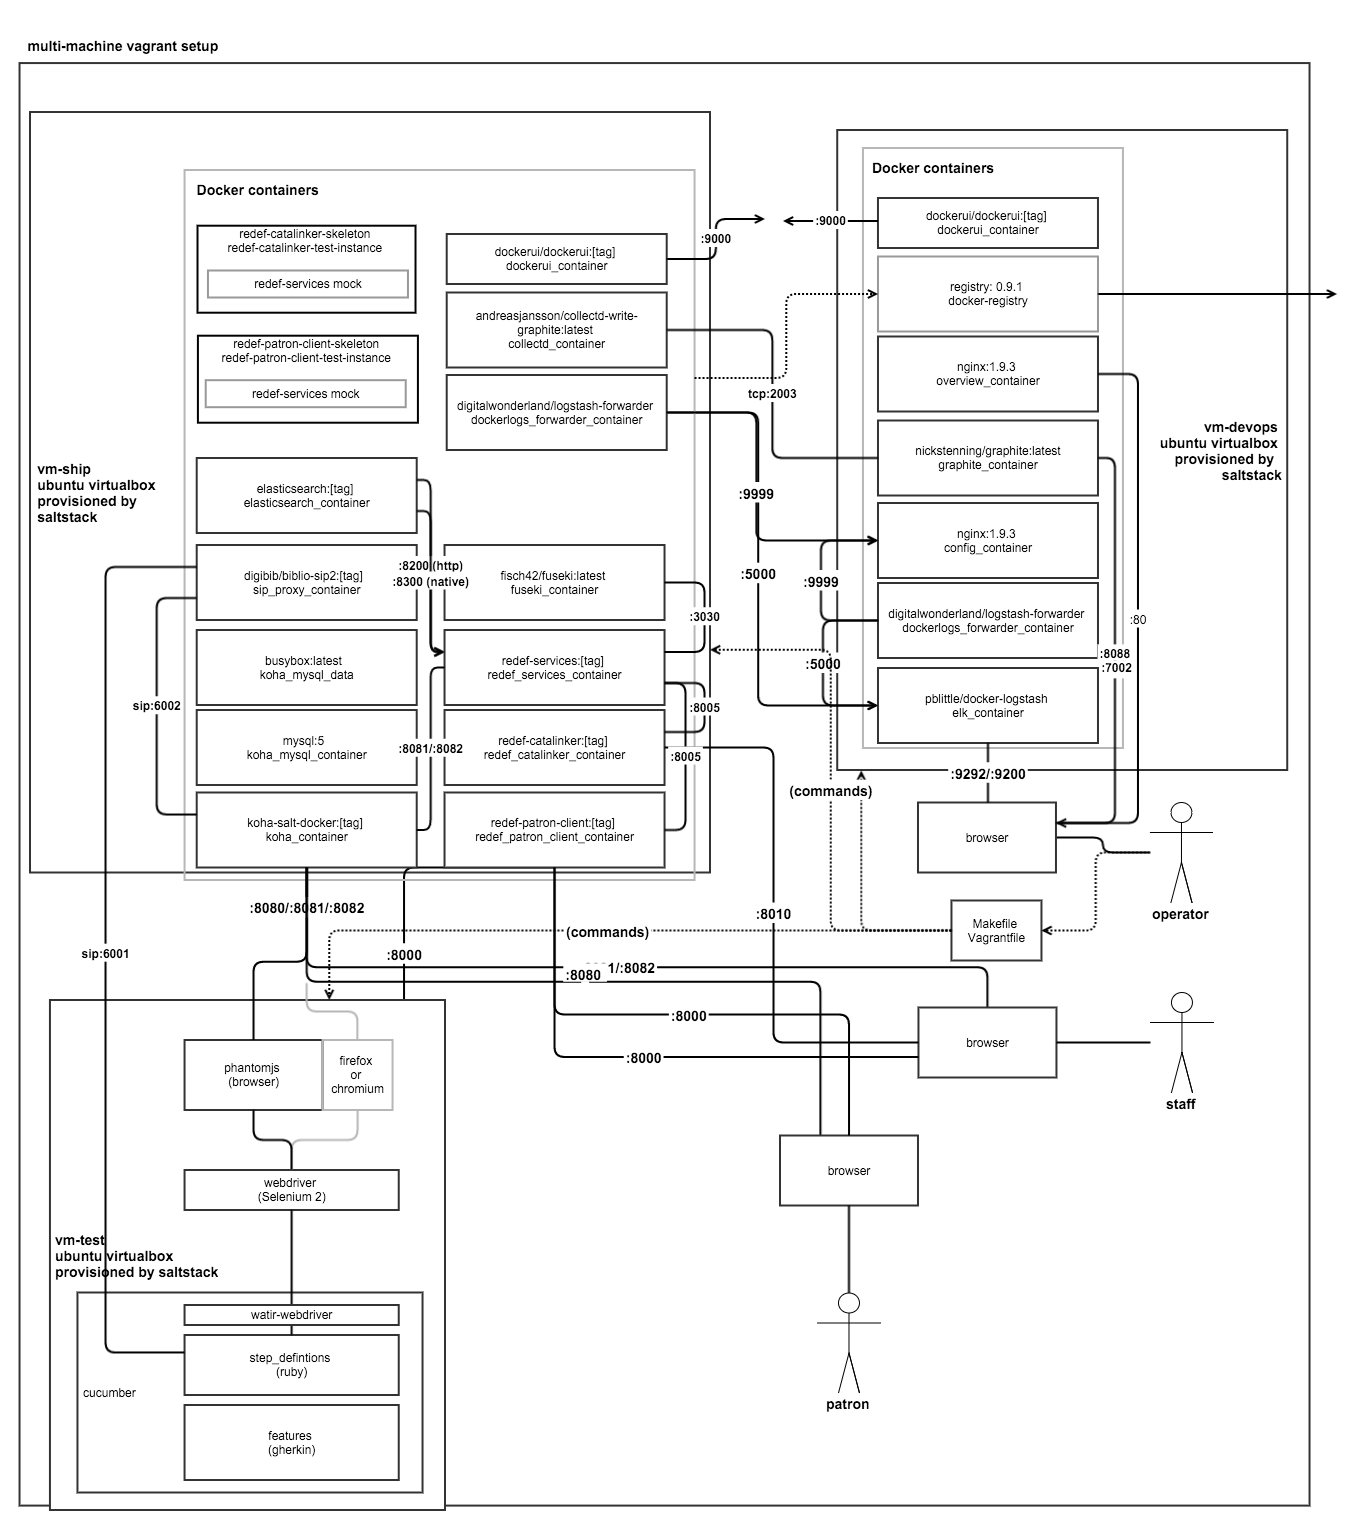
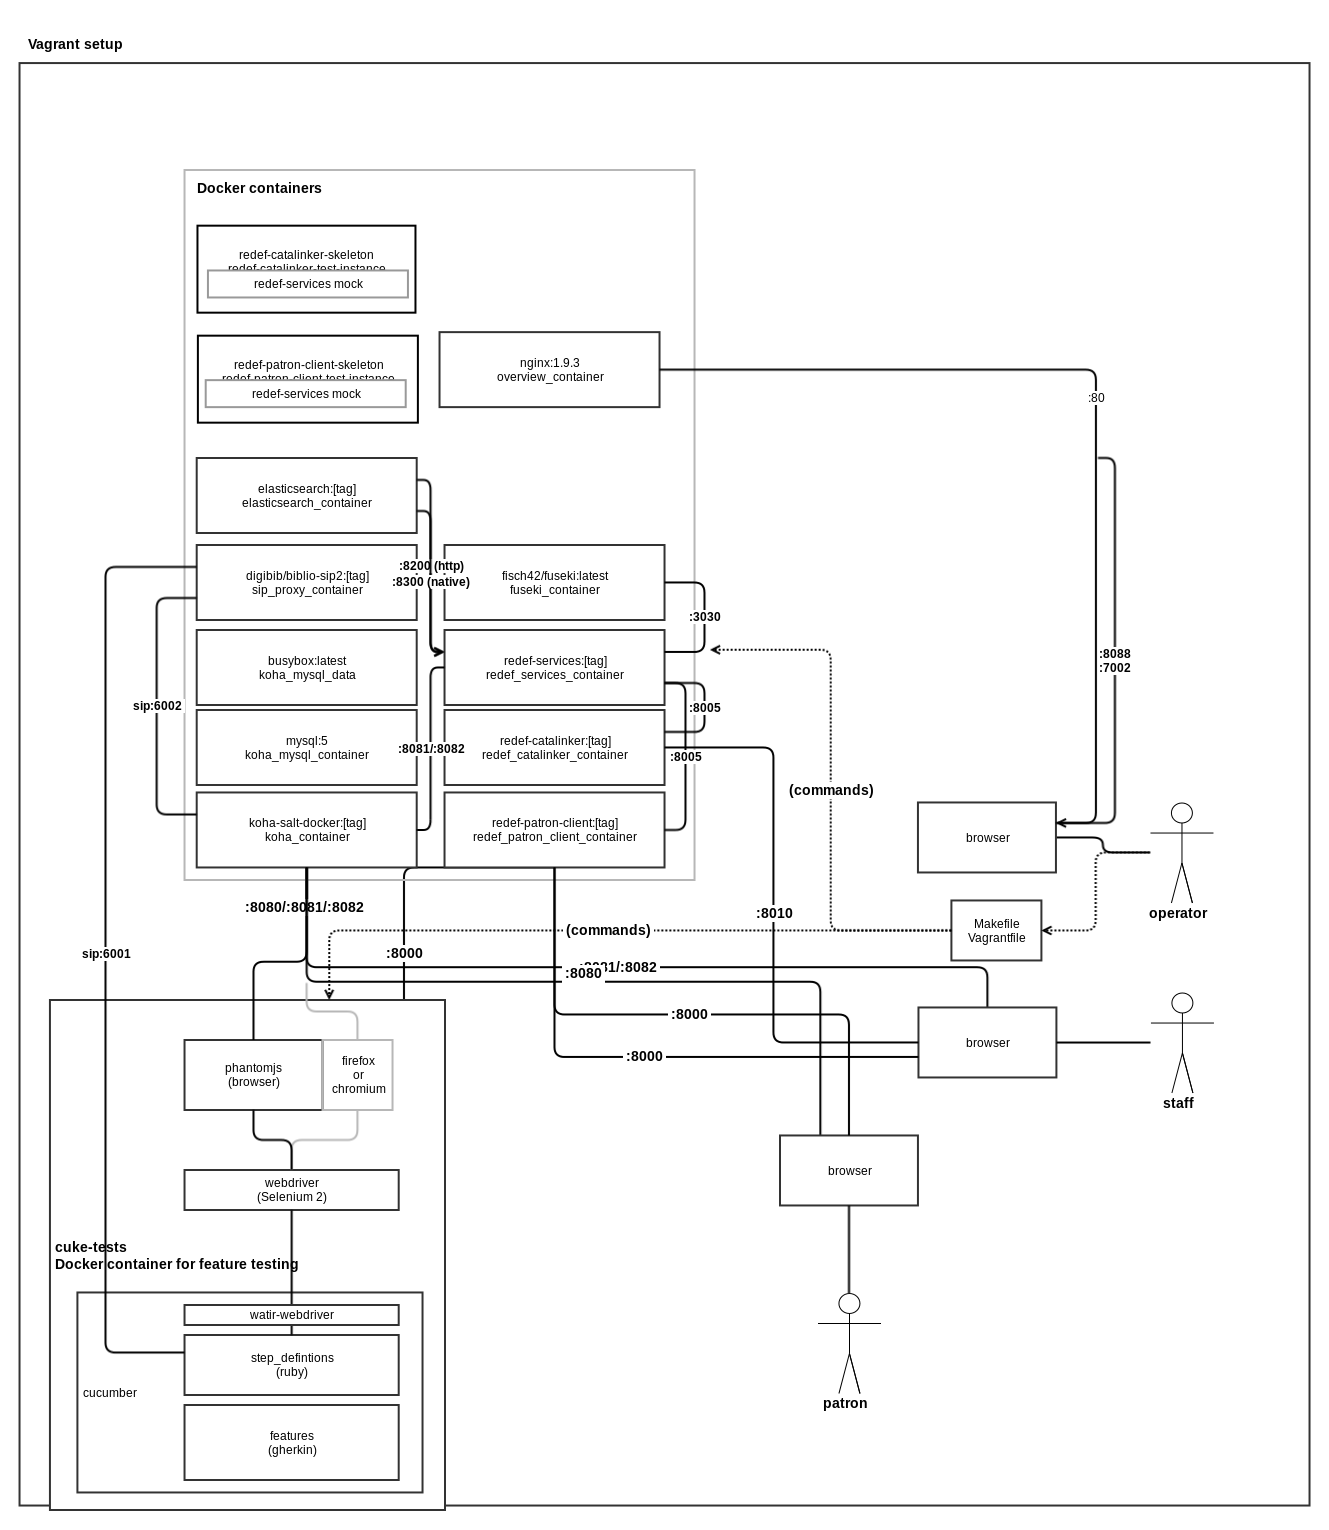
Update README and documentation, cleanup Makefile

diff --git a/README.md b/README.md
@@ -13,11 +13,74 @@ driven by acceptance tests - using [Cucumber](http://cukes.info/). For
 browser automation we use [Watir WebDriver](http://watirwebdriver.com).
 
 This setup uses [Vagrant](http://www.vagrantup.com/) for local virtualisation
-and [SaltStack](http://docs.saltstack.com/) for automated provisioning.
+and [Docker Engine](https://www.docker.com/docker-engine) for Docker container orchestration.
+A minimal [SaltStack](http://docs.saltstack.com/) is used for provisioning, but is planned removed in the future.
 
 ## Usage
 
-For local setup and to run tests, we use a multi-machine vagrant setup (see [Illustration](#illustration)).
+For local setup and to run tests, we use a vagrant setup (see [Illustration](#illustration)).
+
+Docker containers are used both in development and in production.
+
+## Installation and Quickstart
+
+(for detailed installation, read [Installation](#Installation))
+
+Having installed all prerequisites, system cat be set up my:
+
+`make`:     Installs all, sets up and runs all tests (take a lunch break)
+
+Step-wise:
+
+```
+make up:        Starts Vagrant box
+make provision: Provisions box, downloads all code and dependencies, creates and starts containers
+make test:      Runs all tests
+make cuke_test  Run only feature tests
+```
+
+## Docker Compose
+
+Three environment setups:
+```
+dev:    template: docker-compose-template-dev.yml
+build:  template: docker-compose-template-dev-CI.yml
+prod:   template: docker-compose-template-prod-yml
+```
+
+Environment variables are used to provision templates according to base environment
+
+## Environments
+
+Develop:
+```
+export LSDEVMODE=dev
+
+* docker containers are built and run on demand:
+  - catalinker    (handled by docker-compose)
+  - patron-client (handled by docker-compose)
+  - overview      (handled by docker-compose)
+  - services      (handled by gradle)
+```
+
+Build:
+
+`export LSDEVMODE=build`
+
+Build process is handled by Jenkins CI.
+Docker containers are built, Unit Tests, Module Tests and Feature Tests are run.
+
+If success, docker images are pushed to Docker Registry using GITREF as tag
+
+Production:
+
+Deployment is setup in docker-compose-template-prod-yml, and the specified instance is deployed by Jenkins.
+
+GITREF is used to pull correct docker images of (services, catalinker and patron-client).
+
+KOHA_IMAGE_TAG is used to pull specified Koha build
+
+## Installation
 
 1. Install virtualbox and vagrant (and X11-server on OSX - for development):
     - Ubuntu:
@@ -79,12 +142,12 @@ The first step for creating a new feature is authoring a test, in this case a ve
 1. Open terminal
 2. Change directory to LS.ext by typing
 
-   ```
+```
 cd (foldername where you keep your projects)/LS.ext/test/features
 ```
 Then type
 
-    ```
+```
 git up
 ```
 
@@ -94,20 +157,20 @@ git up
    - start by adding a "Egenskap" that explains the feature in the simplest way
    - Then follows the typical "User story" format (with one change).
 
-      ```
+```
 Feature: Title of the feature
   As a (role)
   I want to (what you want to accomplish)
   So therefore I need (what you want to do)
 ```
 
-      It often makes for bad grammar, but helps us focus on what we want to achieve, rather than how we achieve it.
+It often makes for bad grammar, but helps us focus on what we want to achieve, rather than how we achieve it.
 
   - Then you add the Scenario description. Add @wip before the scenario to make sure the test is not run until the feature is done.
 
     Format:
 
-    ```
+```
   Scenario: Title of the scenario
     Gitt (condition og precondition)
     Og (another condition or precondition)
@@ -122,54 +185,35 @@ Feature: Title of the feature
 
 4. Return to the terminal to ensure the test is in proper format
 
-    ```
+```
 make test TESTPROFILE=wip
 ```
 
 5. Stay in the terminal to commit the changes to github
 
-    ```
+```
 git up
 ```
 
-    to check you have all the latest changes from github
+to check you have all the latest changes from github
 
-    ```
+```
 git status
 ```
 
-    to check the difference between your version and the master
+to check the difference between your version and the master
 
-    ```
+```
 git add (the filename(s) you want to push to github)
 ```
 
-    ```
+```
 git commit -m "free text description of the change (less than 50 characters)"
 ```
-    and finally
+and finally
 
-    ```
+```
 git push
-```
-
-### Monitoring of logs with devops, the logserver
-
-You can start the virtual machine devops (aka logserver) to monitor your logs. Devops has the following stack running:
-- logstash: to collect and process log events from logstash-forwarder installed on the servers, in our case vm-ext
-- elasticsearch: to store and index the log events
-- kibana: to present a web interface for searching and visualizing the logs
-
-
-To fire up the logserver, simply do
-```
-make up_devops
-```
-and point your favorite browser to [http://192.168.50.21](http://192.168.50.21)
-
-If you're _really_ lazy you can fire up firefox to see the logstash dashboard by doing:
-```
-make kibana
 ```
 
 ## Illustration
